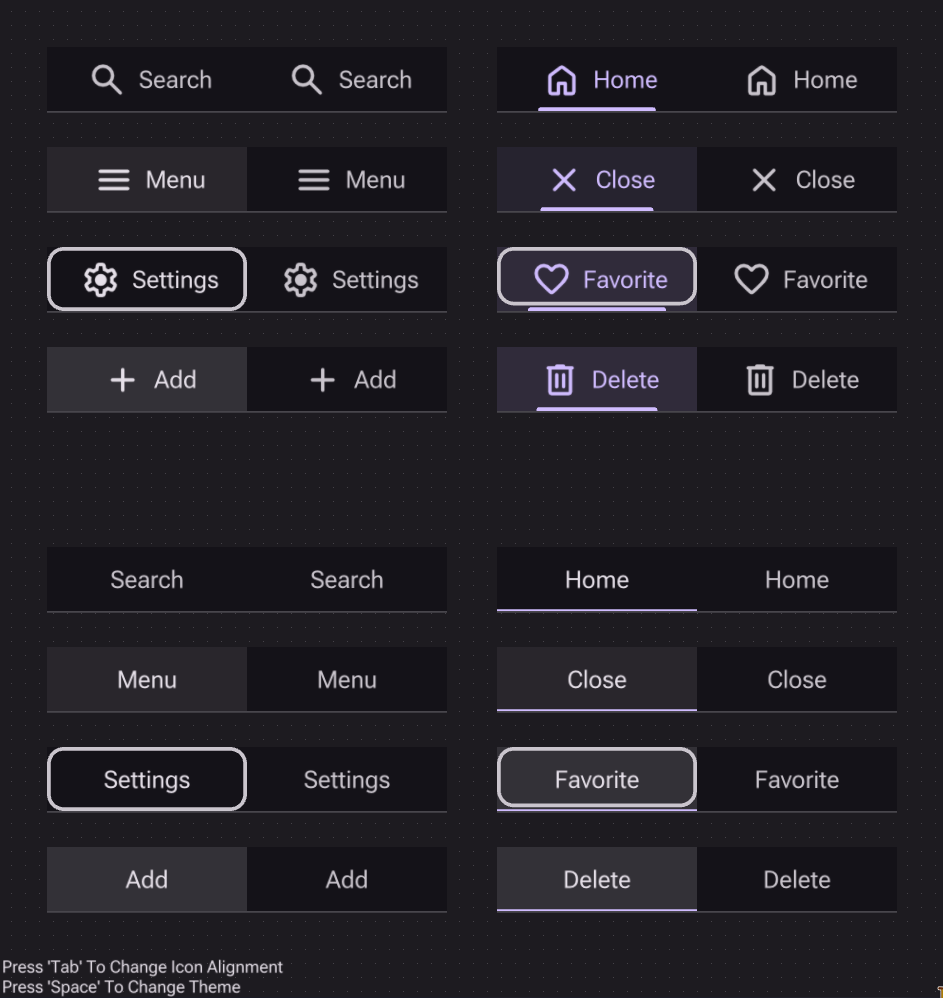
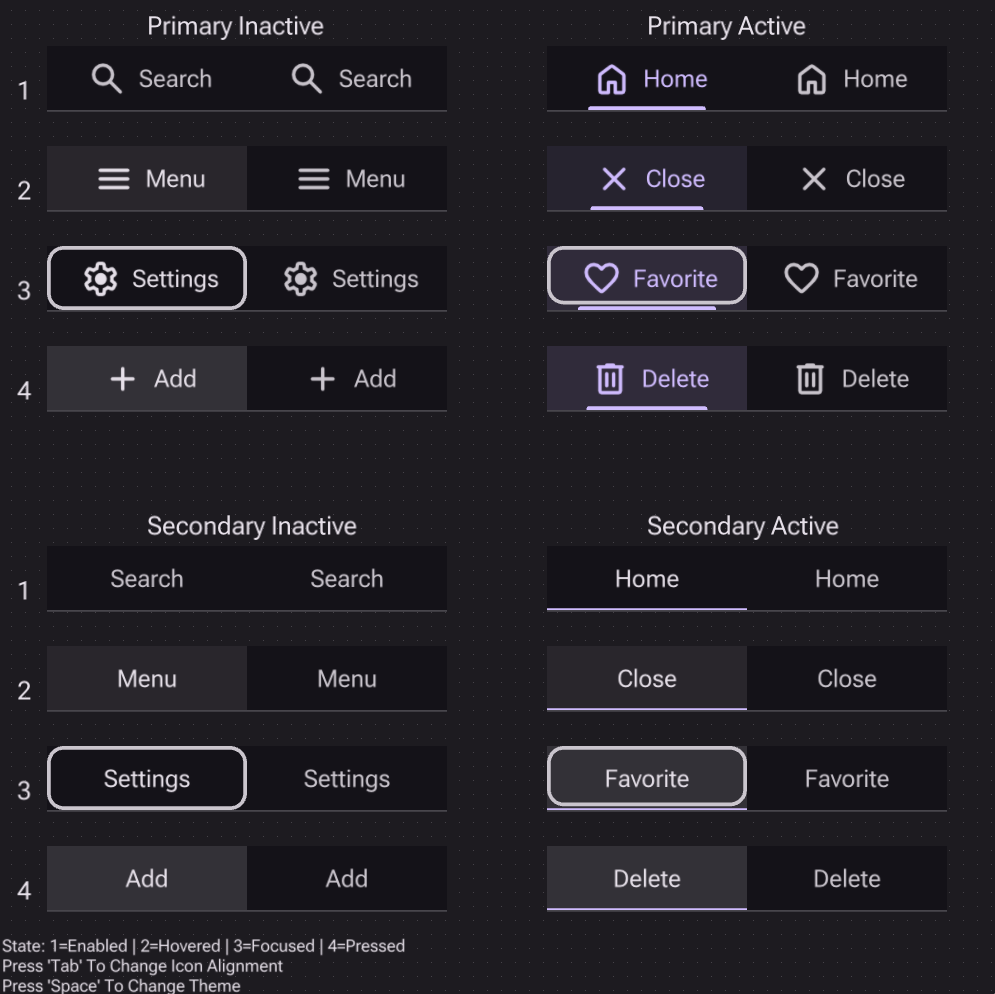
hotfix: added text to 6th demo

diff --git a/src/demo-6.c b/src/demo-6.c
@@ -23,13 +23,19 @@ MDTabIconAlignment ALIGN = MD_TAB_ICON_ALIGN_STACKED;
 
 void DrawLayout() {
     // {{{
+    char num[2] = {'0', 0};
     f32 max_width = 100 * CTX.scaling;
     for (u8 state = 0; state < 4; state++) {
         f32 offset_x = 0;
         for (u8 active = 0; active < 2; active++) {
             u8 index = state * 2 + active;
-            f32 x = 50 + (f32)active * max_width * 2.25;
+            f32 x = 50 + (f32)active * max_width * 2.5;
             f32 y = 50 + (f32)state * 100.0;
+            if (active == 0) {
+                num[0] = state+1+'0';
+                DrawTextEx(ROBOTO, num, (Vector2){x-30, y+30}, 30.0, 0.0, COLOR.Scheme.OnBackground);
+            }
+
             MDTab input = {0};
             input.box = (MDBox){x, y, max_width, 0};
             input.state = state; input.active = active;
@@ -57,8 +63,13 @@ void DrawLayout() {
         f32 offset_x = 0;
         for (u8 active = 0; active < 2; active++) {
             u8 index = state * 2 + active;
-            f32 x = 50 + (f32)active * max_width * 2.25;
+            f32 x = 50 + (f32)active * max_width * 2.5;
             f32 y = 550 + (f32)state * 100.0;
+            if (active == 0) {
+                num[0] = state+1+'0';
+                DrawTextEx(ROBOTO, num, (Vector2){x-30, y+30}, 30.0, 0.0, COLOR.Scheme.OnBackground);
+            }
+
             MDTab input = {0};
             input.box = (MDBox){x, y, max_width, 0};
             input.state = state; input.active = active;
@@ -78,6 +89,10 @@ void DrawLayout() {
             offset_x += output.box.w;
         }
     }
+    DrawTextEx(ROBOTO, "Primary Inactive",   (Vector2){50+max_width *.5, 15}, 30.0, 0.0, COLOR.Scheme.OnBackground);
+    DrawTextEx(ROBOTO, "Primary Active",     (Vector2){50+max_width * 3, 15}, 30.0, 0.0, COLOR.Scheme.OnBackground);
+    DrawTextEx(ROBOTO, "Secondary Inactive", (Vector2){50+max_width *.5, 515}, 30.0, 0.0, COLOR.Scheme.OnBackground);
+    DrawTextEx(ROBOTO, "Secondary Active",   (Vector2){50+max_width * 3, 515}, 30.0, 0.0, COLOR.Scheme.OnBackground);
     // }}}
 }
 
@@ -162,6 +177,7 @@ int main(void) {
         }
 
         // DrawFPS(0,0);
+        DrawTextEx(ROBOTO, "State: 1=Enabled | 2=Hovered | 3=Focused | 4=Pressed", (Vector2){5, GetScreenHeight()-60}, 20.0, 0.0, COLOR.Scheme.OnBackground);
         DrawTextEx(ROBOTO, "Press 'Tab' To Change Icon Alignment", (Vector2){5, GetScreenHeight()-40}, 20.0, 0.0, COLOR.Scheme.OnBackground);
         DrawTextEx(ROBOTO, "Press 'Space' To Change Theme", (Vector2){5, GetScreenHeight()-20}, 20.0, 0.0, COLOR.Scheme.OnBackground);
         EndDrawing();
